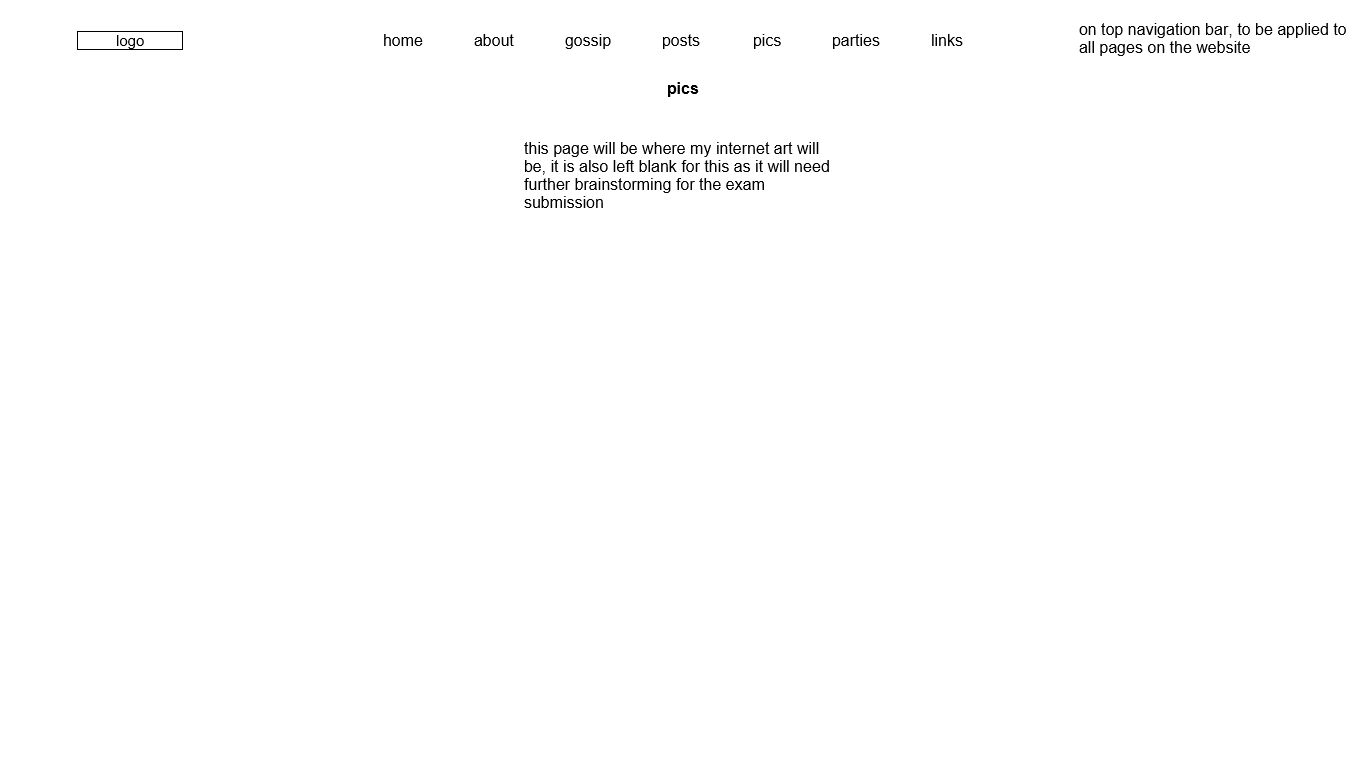
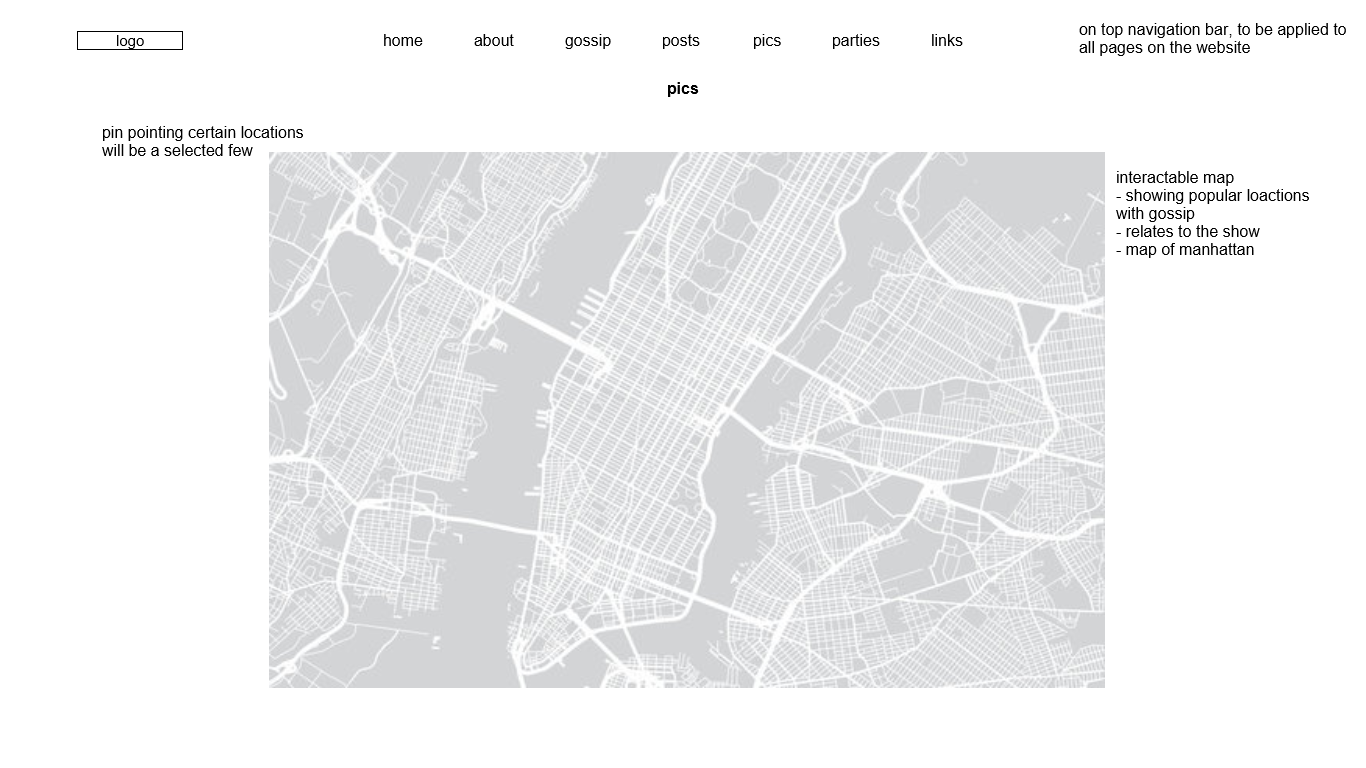
Update Three Big Push

diff --git a/src/pages/Pics.js b/src/pages/Pics.js
@@ -1,3 +1,4 @@
+//importing the necessary components
 import React from "react";
 import "../styles/Pics.css";
 import "leaflet/dist/leaflet.css";
@@ -6,14 +7,20 @@ import { mapData } from "../components/MapData";
 import { Icon, divIcon, point } from "leaflet";
 import MarkerClusterGroup from "react-leaflet-cluster"; //to create map cluster
 import ScrollToTop from "../components/ScrollToTop";
+
 //pics page
 //this is where my internet art is
+//it is an interactive map using react-leaflet with markers and clusters
 export default function Pics() {
+  //custom icon for markers
+  //imported from flaticon
   const customIcon = new Icon({
     iconUrl: "https://cdn-icons-png.flaticon.com/128/484/484167.png",
     iconSize: [30, 30], //size of the icon in pixels
   });
 
+  //this function creates cluster icons
+  //it appears when you zoom further out of map
   const createCustomClusterIcon = (cluster) => {
     return new divIcon({
       html: `<div class="cluster-icon">${cluster.getChildCount()}</div>`,
@@ -26,19 +33,23 @@ export default function Pics() {
       <section className="pics-heading">
         <h1>pics</h1>
         <main>
-          {/* This is the coordinates of Manhatthan where Gossip Girl takes place in */}
+          {/* this is the coordinates of Manhatthan where Gossip Girl takes place in */}
           <MapContainer center={[40.7831, -73.9712]} zoom={14}>
             <TileLayer
               attribution='&copy; <a href="https://www.openstreetmap.org/copyright">OpenStreetMap</a> contributors'
               url="https://{s}.tile.openstreetmap.org/{z}/{x}/{y}.png"
             />
+            {/* marker cluster group for clustering markers */}
             <MarkerClusterGroup
               chunkedLoading
               iconCreateFunction={createCustomClusterIcon}
             >
+              {/* mapping through mapData array to create markers */}
               {mapData.map((marker, index) => (
                 <div key={index}>
+                  {/* the marker component */}
                   <Marker position={marker.geocode} icon={customIcon}>
+                    {/* the popup for each marker - it will display information below */}
                     <Popup>
                       <h3 className="map-heading">{marker.name}</h3>
                       <p className="map-para">{marker.gossip}</p>

diff --git a/src/pages/Parties.js b/src/pages/Parties.js
@@ -1,3 +1,4 @@
+//importing the necessary components
 import React from "react";
 import "../styles/Parties.css";
 import { imageData } from "../components/ImageData";
@@ -23,14 +24,14 @@ export default function Parties() {
           <p>
             Home Page: This is the homepage, where you are welcomed by the name
             of the site as well as the slogan of the site. There are no images
-            as I just could not find a way on how I wanted to place them. The
-            title is ‘Gossip Glitz’ instead of ‘Gossip Girl’, although the
-            website is inspired by the show, I did not want to copy everything
-            word for word.
+            on the homepage to keep up with my minimal theme along with there
+            being images on all the other pages. The title is ‘Gossip Glitz’
+            instead of ‘Gossip Girl’, although the website is inspired by the
+            show, I did not want to copy everything word for word.
           </p>
           <p>
             About Page: This provides the user with information regarding the
-            page.
+            page, such as what is the site about and how you can use it.
           </p>
           <p>
             Gossip Page: This is the gossip page that contains information about
@@ -44,10 +45,15 @@ export default function Parties() {
             pages.
           </p>
           <p>
-            Pics Page: This page is currently blank as it will be where I place
-            my internet artwork, don’t worry about the naming of the page, it is
-            named like that for the purpose of it linking to my theme, the same
-            applies with the other pages I have.
+            Posts Detail Page: This page represnts how all the post pages will
+            look when you enter the page.
+          </p>
+          <p>
+            Pics Page: This page is where my internet artwork is. If you take
+            look at the wireframe, you are able to see my planning of it. This
+            page contains a map of Manhattan - which is where the show takes
+            place. I was inspired by the use of maps in the series when spotting
+            a character, therefore influencing my internet artwork.
           </p>
           <p>
             Parties Page: This page functions as my design section, where you

diff --git a/src/App.js b/src/App.js
@@ -1,5 +1,6 @@
-//use w3schools the help with this, as i went through their example along with my previous assignments work
+//used w3schools the help with this, as i went through their example along with my previous assignments work
 //w3schools was more in depth and explained why i use what i use
+//importing all the components
 import React from "react";
 import { BrowserRouter, Routes, Route } from "react-router-dom";
 import Navbar from "./components/Navbar";
@@ -20,6 +21,8 @@ import Footer from "./components/Footer";
 import NotFound from "./pages/NotFound";
 import AutoTop from "./components/AutoTop";
 
+//this is the app component
+//serves as the main cointainer for the application
 export default function App() {
   //using BrowserRouter to enable routing - so that i am able to have various pages and have them all linked
   //Routes for the navigation part
@@ -42,7 +45,7 @@ export default function App() {
           <Route path="/posts/postfour" element={<Postfour />} />
           <Route path="/posts/postfive" element={<Postfive />} />
           <Route path="/posts/postsix" element={<Postsix />} />
-          <Route path="*" element={<NotFound />} />
+          <Route path="/*" element={<NotFound />} />
         </Route>
       </Routes>
       <Footer />

diff --git a/src/components/ImageData.js b/src/components/ImageData.js
@@ -6,7 +6,9 @@ export const imageData = [
   { id: 2, src: "imgs/About@1x.png", alt: "About page Wireframe" },
   { id: 3, src: "imgs/Gossip@1x.png", alt: "Gossip page Wireframe" },
   { id: 4, src: "imgs/Posts@1x.png", alt: "Posts page Wireframe" },
-  { id: 5, src: "imgs/Pics@1x.png", alt: "Pics page Wireframe" },
-  { id: 6, src: "imgs/Parties@1x.png", alt: "Parties page Wireframe" },
-  { id: 7, src: "imgs/Links@1x.png", alt: "Links page Wireframe" },
+  { id: 5, src: "imgs/PostsDetail@1x.png", alt: "Posts detail page Wireframe" },
+  { id: 6, src: "imgs/Pics@1x.png", alt: "Pics page Wireframe" },
+  { id: 7, src: "imgs/Parties@1x.png", alt: "Parties page Wireframe" },
+  { id: 8, src: "imgs/Links@1x.png", alt: "Links page Wireframe" },
+  { id: 9, src: "imgs/Footer@1x.png", alt: "Footer page Wireframe" },
 ];

diff --git a/src/components/ScrollToTop.js b/src/components/ScrollToTop.js
@@ -1,9 +1,12 @@
+//importing all the needed components
 import React from "react";
 import { useState, useEffect } from "react";
 import { FontAwesomeIcon } from "@fortawesome/react-fontawesome";
 import { faChevronUp } from "@fortawesome/free-solid-svg-icons";
 import "../styles/ScrollToTop.css";
 
+//scroll to the top functions
+//enables a button to appear on the page so that users are able to click it and scroll to the top (easily)
 export default function ScrollToTop() {
   const [showButton, setShowButton] = useState(false);
 
@@ -22,7 +25,6 @@ export default function ScrollToTop() {
   }, []);
 
   //clicking the button that allows you to scroll to the top
-
   const scrollToTop = () => {
     window.scrollTo({
       top: 0,

diff --git a/src/components/MapData.js b/src/components/MapData.js
@@ -1,9 +1,16 @@
+//array containing the map data for internet artwork
+//note the information on the first item in the array apply to all the other items
+
 export const mapData = [
   {
+    //this is so that the pin icon is placed at the exact location
     geocode: [40.7794, -73.9632],
+    //the name of the location
     name: "The Met Steps",
+    //the gossip from the location
     gossip:
       "Serena van der Woodsen having a private conversation with an unknown figure at The Met Steps. What secrets are being exchanged on the iconic steps?",
+    //an image of the location (no characters are in the image - it is so you get a feel of the place)
     image: "imgs/map/metsteps.jpg",
   },
   {

diff --git a/src/components/BackButton.js b/src/components/BackButton.js
@@ -1,11 +1,16 @@
+//importing the necessary components from React and ReactDOM
 import React from "react";
 import { useNavigate } from "react-router-dom";
-import "../styles/BackButton.css";
+import "../styles/BackButton.css"; //importing the styling component to be use
 
+//establishing a back button function
+//alows you to go back to the previous page
+//only used in the posts pages
 export default function BackButton() {
   const history = useNavigate();
   return (
     <section>
+      {/* this event allows you to navigate back by 1 page hence history - 1 */}
       <button className="button" onClick={() => history(-1)}>
         Back
       </button>

diff --git a/src/index.css b/src/index.css
@@ -1,3 +1,4 @@
+/* importing various fonts */
 @font-face {
   font-family: larafont;
   src: url(./fonts/Lara\ regular.otf);
@@ -18,6 +19,7 @@
   src: url(./fonts/StaraMedium.otf);
 }
 
+/* basic website styling */
 * {
   font-family: stara;
   margin: 0;
@@ -26,7 +28,7 @@
 }
 
 body {
-  background: white;
+  background: #f9e7e8;
 }
 
 a {
@@ -37,7 +39,6 @@ a {
 }
 
 /* adding navigation bar style as it will be applied to all pages */
-
 .container {
   padding-left: 5%;
   padding-right: 5%;

diff --git a/src/pages/NotFound.js b/src/pages/NotFound.js
@@ -1,8 +1,11 @@
+//importing the necessary components
 import React from "react";
 import { Link } from "react-router-dom";
 import "../styles/NotFound.css";
 import ScrollToTop from "../components/ScrollToTop";
 
+//404 page
+//this is a personalised 404 error page so that it can inform users if they have entered somehting that does not relate to the page titles
 export default function NotFound() {
   return (
     <section className="notf-heading">

diff --git a/src/index.js b/src/index.js
@@ -1,9 +1,11 @@
+//importing the necessary modules from React and ReactDOM libraries
 import React from "react";
 import ReactDOM from "react-dom/client";
 import "./index.css";
-import App from "./App";
+import App from "./App"; // importing the main app component - where all our information is
 
 const root = ReactDOM.createRoot(document.getElementById("root"));
+//rendering the App component
 root.render(
   <React.StrictMode>
     <App />

diff --git a/src/pages/About.js b/src/pages/About.js
@@ -1,3 +1,4 @@
+//importing the necessary components
 import React from "react";
 import "../styles/About.css";
 import aboutimage1 from "../images/about1.jpg";
@@ -5,6 +6,7 @@ import aboutimage2 from "../images/about2.jpg";
 import ScrollToTop from "../components/ScrollToTop";
 
 //about page component
+//page informs users on what the website is about
 export default function About() {
   return (
     //main section for the about page

diff --git a/src/pages/Home.js b/src/pages/Home.js
@@ -1,9 +1,11 @@
+//importing the necessary components
 import React from "react";
 import "../styles/Home.css";
 import ScrollToTop from "../components/ScrollToTop";
 
 //nothing major in this page
 //this is the home page component
+//also known as the landing page when you enter the website
 export default function Home() {
   return (
     <main className="header-1 container">
